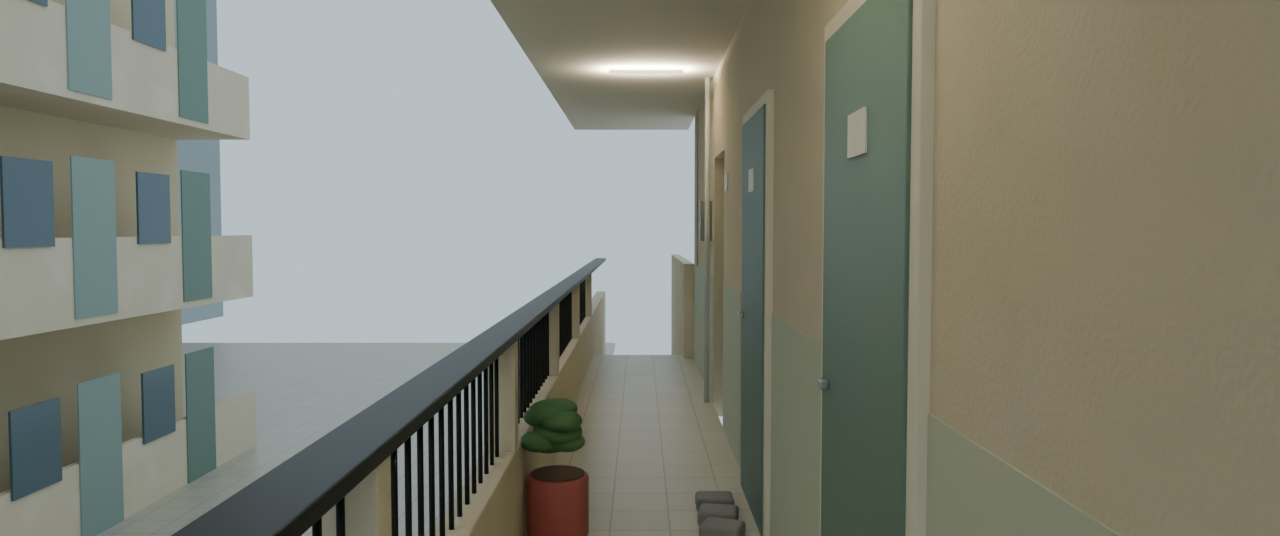
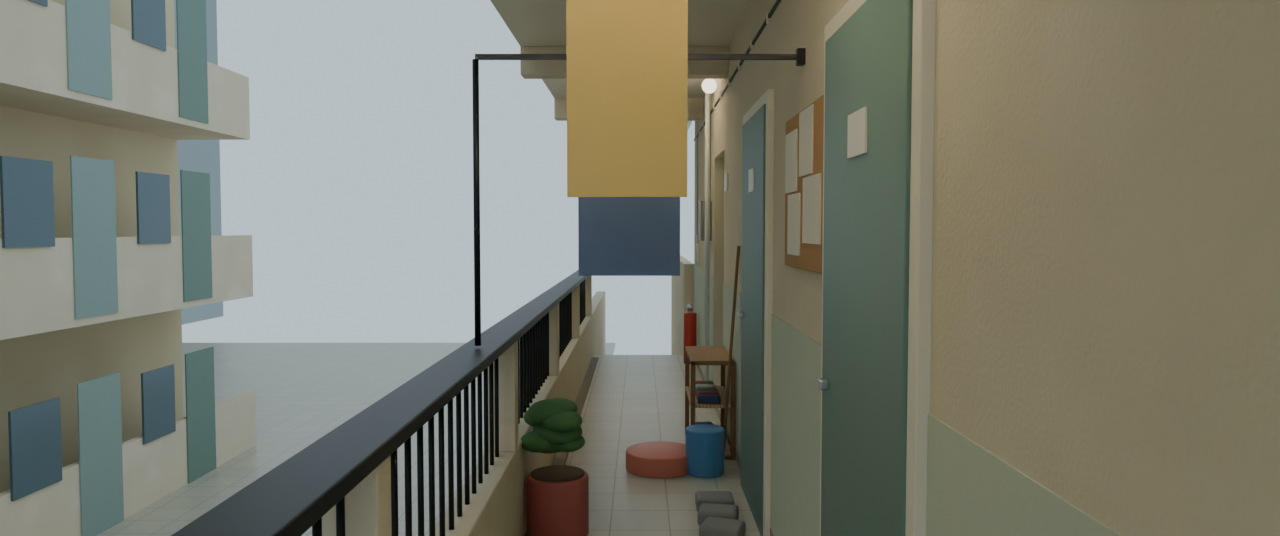
Ho so 02: them chi tiet hanh lang va camera hanh lang
Claude-Session: https://claude.ai/code/session_015xtvRhLRyfqVC2mbHabEYR

diff --git a/episodes/hem-co-chuyen/ho-so-02-nguoi-lam-thay/assets/boi-canh-3d/xay_phong_tro.py b/episodes/hem-co-chuyen/ho-so-02-nguoi-lam-thay/assets/boi-canh-3d/xay_phong_tro.py
@@ -462,6 +462,57 @@ def hallway(m, coll, night):
     box('phan_xa_toa_nha', -60, -20, -30, 60, -2.5, 22, M.mottled('toa_nha_xa', '#9aa3a6', rough=1.0, scale=0.3, vary=0.1, bump=0.0), coll=coll)
 
 
+def hallway_details(m, coll, night):
+    """Chi tiết đời sống hành lang: dây điện, kệ giày, dây phơi, bình chữa cháy, bảng thông báo, đèn cửa, dầm mái."""
+    ex = -T; X0 = -1.45; Y0, Y1 = -0.6, 9.5
+    dark = M.solid('day_dien', '#2a2a2a', 0.5); red = M.solid('binh_cc', '#b3362c', 0.45)
+    paper = M.solid('giay_tb', '#efe9d8', 0.8); cork = M.solid('bang_tb', '#b78c5a', 0.9)
+    # dây điện chạy dọc tường, kẹp mỗi 0,6 m, rẽ xuống hộp điện
+    box('day_dien_hl', ex - 0.012, ex, Y0, Y1, 2.52, 2.535, dark, coll=coll)
+    for i in range(int((Y1 - Y0) / 0.6)):
+        box(f'kep_day{i}', ex - 0.016, ex, Y0 + 0.3 + i * 0.6, Y0 + 0.33 + i * 0.6, 2.50, 2.555, m['viền'], coll=coll)
+    box('day_dien_xuong', ex - 0.012, ex, DOOR['y0'] - 0.4, DOOR['y0'] - 0.385, 1.75, 2.52, dark, coll=coll)
+    # dầm mái ngang mỗi 2,4 m
+    for i in range(5):
+        y = Y0 + 1.2 + i * 2.4
+        box(f'dam_mai{i}', X0 - 0.15, ex, y, y + 0.18, H - 0.2, H, m['tuong'], bevel=0.006, coll=coll)
+    # bóng đèn cầu chì trên cửa phòng Nam
+    cyl('den_cua_de', -0.2, 2.47, H - 0.08, 0.03, 0.05, m['inox'], coll=coll)
+    sphere('den_cua', -0.2, 2.47, H - 0.16, 0.06, m['den_tuyp_hl'], coll=coll)
+    # kệ giày cạnh cửa phòng Nam (y 3.1–3.8), 2 tầng
+    for k, z in enumerate([0.0, 0.32]):
+        box(f'ke_giay{k}', ex - 0.30, ex - 0.02, 3.1, 3.8, z + 0.02, z + 0.04, m['go_ban'] if 'go_ban' in m else M.solid('ke_giay', '#8a6a46', 0.7), bevel=0.004, coll=coll)
+    for xx in (ex - 0.30, ex - 0.04):
+        for yy in (3.1, 3.77):
+            box(f'ke_giay_chan_{xx:.2f}_{yy:.2f}', xx, xx + 0.03, yy, yy + 0.03, 0.0, 0.64, M.solid('ke_giay_c', '#8a6a46', 0.7), coll=coll)
+    box('ke_giay_tren', ex - 0.30, ex - 0.02, 3.1, 3.8, 0.62, 0.65, M.solid('ke_giay_t', '#8a6a46', 0.7), bevel=0.004, coll=coll)
+    cols = ['#3d4a6b', '#9a6a4a', '#d8d2c2', '#5b7a5e', '#a84a4a']
+    for i in range(5):
+        for k, z in enumerate([0.04, 0.34]):
+            box(f'dep{k}_{i}', ex - 0.25, ex - 0.1, 3.16 + i * 0.13, 3.16 + i * 0.13 + 0.09, z, z + 0.07, M.solid(f'dep_{k}_{i}', cols[(i + k) % 5], 0.7), bevel=0.02, coll=coll, rot=(0, 0, math.radians(8 * ((i + k) % 3) - 8)))
+    # dây phơi ngang hành lang (y = 6.0) + vài món đồ treo
+    box('day_phoi', X0 + 0.07, ex - 0.02, 5.99, 6.01, 2.15, 2.17, dark, coll=coll)
+    cyl('cot_phoi', X0 + 0.07, 6.0, 1.6, 0.012, 1.1, m['thep'], coll=coll)  # cột dựng từ tay vịn lan can
+    box('moc_phoi', ex - 0.03, ex, 5.98, 6.02, 2.13, 2.19, m['thep'], coll=coll)
+    for nm, y0, c, w, h in [('ao1', 6.03, '#9bb4c8', 0.42, 0.62), ('quan1', 6.50, '#586a8a', 0.30, 0.82), ('ao2', 6.92, '#e1c27a', 0.40, 0.58)]:
+        box('phoi_' + nm, -0.95, -0.62, y0, y0 + 0.03, 2.17 - h, 2.17, M.solid('phoi_' + nm, c, 0.9), coll=coll)
+    # bình chữa cháy + bảng thông báo gần cầu thang
+    cyl('binh_cc', ex - 0.09, 0.15, 0.33, 0.07, 0.55, red, coll=coll, bevel=0.01)
+    cyl('binh_cc_co', ex - 0.09, 0.15, 0.66, 0.03, 0.07, m['inox'], coll=coll)
+    box('bang_cc', ex - 0.015, ex, 0.04, 0.26, 1.15, 1.45, M.solid('bang_cc', '#d9d3c0', 0.7), coll=coll)
+    box('bang_cc_do', ex - 0.02, ex - 0.015, 0.04, 0.26, 1.35, 1.45, red, coll=coll)
+    box('bang_tb', ex - 0.02, ex, 5.7, 6.5, 1.35, 1.95, cork, bevel=0.004, coll=coll)
+    for i, (a, b, z) in enumerate([(5.74, 5.98, 1.65), (6.04, 6.28, 1.70), (5.80, 6.05, 1.40), (6.12, 6.42, 1.45)]):
+        box(f'tb_giay{i}', ex - 0.026, ex - 0.02, a, b, z, z + 0.24, paper, coll=coll)
+    # xô + chậu giặt + chổi trước phòng B
+    cyl('xo_nuoc', -0.35, 4.1, 0.14, 0.12, 0.28, M.solid('xo_nuoc', '#4f86b5', 0.5), coll=coll, bevel=0.01)
+    cyl('chau_nhua', -0.62, 4.0, 0.06, 0.22, 0.12, M.solid('chau_nhua', '#d9806a', 0.5), coll=coll, bevel=0.01)
+    cyl('choi_hl', ex - 0.06, 3.95, 0.7, 0.01, 1.4, M.solid('choi_hl', '#8a6a46', 0.7), coll=coll, rot=(0, math.radians(4), 0))
+    # vết ố chân tường + rãnh thoát nước sát lan can
+    box('o_chan_tuong', ex - 0.006, ex, Y0, Y1, 0.0, 0.07, M.solid('o_chan', '#a89f8a', 0.9), coll=coll)
+    box('ranh_nuoc', X0 + 0.14, X0 + 0.22, Y0, Y1, 0.0, 0.012, M.solid('ranh', '#8c8576', 0.8), coll=coll)
+
+
 # ------------------------------------------------------------------ ánh sáng, thế giới, camera
 def world_and_lights(mode, coll):
     w = bpy.data.worlds.new('troi'); bpy.context.scene.world = w; w.use_nodes = True
@@ -507,6 +558,9 @@ CAMERAS = {  # tên: (vị trí, điểm nhìn, tiêu cự mm)
     'KITCHEN': ((1.1, 2.1, 1.45), (0.45, 0.25, 1.0), 28),
     'HALL': ((-0.75, 9.3, 1.5), (-0.75, -1.8, 1.0), 24),
     'HALL_DOOR': ((-1.25, 5.2, 1.45), (-0.05, 2.5, 1.2), 28),
+    'HALL_FACE': ((-1.3, 0.2, 1.5), (-0.05, 3.6, 1.2), 22),  # nhìn dọc hành lang về cửa phòng Nam từ phía cầu thang
+    'HALL_STAIR': ((-0.7, 1.4, 1.6), (-0.7, -1.6, 0.2), 24),
+    'HALL_END': ((-0.7, 0.1, 1.55), (-0.75, 9.0, 1.4), 22),
     'TOP': ((1.5, 2.0, 5.6), (1.5, 2.0, 0.0), 24),
     'LOW': ((1.0, 3.7, 0.35), (2.2, 0.6, 1.0), 24),
 }
@@ -534,7 +588,7 @@ def build(mode='day', door_open=10.0, chair_rot=0.0, fan_angle=0.0, cam='WIDE', 
     m['den_tuyp_hl'] = M.emission('den_tuyp_hl', '#fff1d6', 14.0 if mode == 'night' else 2.5)
     m['dd_cua_so'] = M.emission('dd_cua_so', '#ffd89a', 3.0) if mode == 'night' else M.solid('dd_cua_so_ngay', '#4f6670', 0.2)
     shell(m, coll, door_open, cutaway=(cam in ('TOP',)), hide_front=(CAMERAS[cam][0][1] > D)); kitchen(m, coll); wardrobe(m, coll); desk_and_chair(m, coll, chair_rot=chair_rot); bed(m, coll); fan(m, coll, blade=fan_angle)
-    mirror(m, coll); clutter(m, coll, dep_san=dep_san); wall_details(m, coll); lights_fixture(m, coll); hallway(m, coll, mode == 'night')
+    mirror(m, coll); clutter(m, coll, dep_san=dep_san); wall_details(m, coll); lights_fixture(m, coll); hallway(m, coll, mode == 'night'); hallway_details(m, coll, mode == 'night')
     world_and_lights(mode, coll); lighting(mode, coll)
     co = add_camera(cam); sc.camera = co
     sc.render.engine = 'CYCLES'; sc.cycles.device = 'CPU'; sc.cycles.samples = 96; sc.cycles.use_denoising = True

diff --git a/episodes/hem-co-chuyen/ho-so-02-nguoi-lam-thay/assets/boi-canh-3d/README.md b/episodes/hem-co-chuyen/ho-so-02-nguoi-lam-thay/assets/boi-canh-3d/README.md
@@ -41,3 +41,8 @@ Trên Linux không màn hình cần `libegl1`. Render Cycles CPU, khoảng 1–2
 - Có: vỏ phòng, cửa (mở được, then sắt gỉ, tay nắm), cửa sổ (kính, song sắt, rèm nếp), bếp (chậu, vòi, giá đĩa, kệ cốc), tủ quần áo mở, bàn học (hộc kéo, giá sách, laptop, đèn bàn), ghế (xoay được `--chair-rot`), nệm đôi (gối, chăn), quạt đứng, gương đứng, bình nước, carton, chổi, thùng, dép, bát; hành lang đầy đủ; ngày và đêm.
 - **Chưa có (lượt sau):** gương phản chiếu có điều khiển riêng Người Kia (hiện chỉ vật liệu gương phẳng của Cycles); chuyển động quạt/rèm/ghế (script chỉ nhận góc tĩnh `fan_angle`, `chair_rot`, `door_open`); đạo cụ cầm nắm (điện thoại, căn cước, búa, bát, đũa) kèm điểm bám tay; nhân vật 3D (chưa nhận định dạng); camera điện ảnh 2.39:1 có DoF, dolly zoom, rung tay; phòng của Tùng, giảng đường và các bối cảnh phần 2–3; texture nâng cao (ảnh vân tường thật), dao động vi mô của vật liệu.
 - Ảnh xem thử là bản render nháp 64 mẫu để duyệt bố cục, ánh sáng, vật liệu; chưa phải chất lượng cuối.
+
+## Hành lang (lượt 12/11 tối)
+- Thêm `hallway_details`: dây điện có kẹp, dầm mái, đèn cửa, kệ giày + dép, dây phơi có cột và móc, bình chữa cháy + bảng, bảng thông báo, xô/chậu/chổi, vệt ố chân tường, rãnh nước.
+- Camera mới: `HALL_FACE` (nhìn về cửa phòng Nam), `HALL_END`, `HALL_STAIR`. Ảnh trong `xem-thu/`.
+- Chưa làm: ánh sáng ngoại cảnh ban đêm (dãy trọ đối diện chưa sáng đèn đủ), người/đồ chuyển động, âm thanh.
